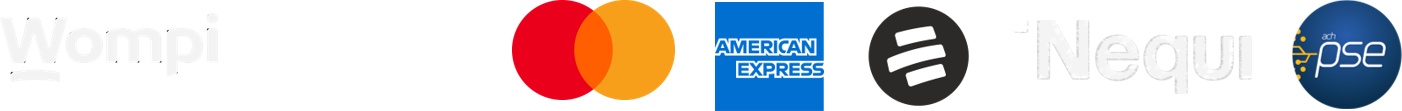
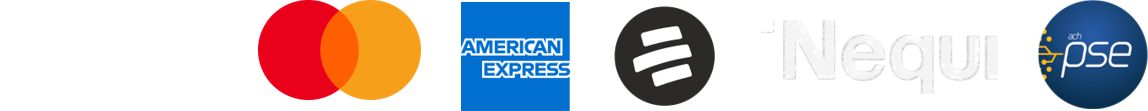
feat(Tienda): Implementar método de pago 'Compra y Paga Después'

diff --git a/application/views/carrito/finalizar.php b/application/views/carrito/finalizar.php
@@ -112,20 +112,6 @@ if($this->session->userdata('usuario_id')) {
                         </div>
                         <hr>
 
-                        <div class="row mb-3">
-                            <div class="col-3">
-                                <div class="block-features__item-icon">
-                                    <img src="<?php echo base_url(); ?>images/icons/envios_gratis.svg">
-                                </div>
-                            </div>
-                            <div class="col-9">
-                                <div class="block-features__item-info">
-                                    <div class="block-features__item-title">Envíos gratis</div>
-                                    <div class="block-features__item-subtitle">Tus órdenes gratis en todo el Valle de Aburrá</div>
-                                </div>
-                            </div>
-                        </div>
-
                         <input type="hidden" id="pedido_total_pago" value="<?php echo $this->cart->total(); ?>">
 
                         <?php if(isset($this->data['permisos']) && in_array(['pedidos' => 'pedidos_credito_gestionar'], $this->data['permisos'])) { ?>
@@ -146,6 +132,58 @@ if($this->session->userdata('usuario_id')) {
                                 </label>
                             </div>
                         <?php } ?>
+
+                        <!-- Pagar con todos los medios de pago -->
+                        <div class="form-check mb-3">
+                            <span class="input-check form-check-input">
+                                <span class="input-check__body">
+                                    <input class="input-check__input" type="radio" name="pago_todos" id="pago_todos" checked>
+                                    <span class="input-check__box"></span>
+                                    <span class="input-check__icon">
+                                        <svg width="9px" height="7px">
+                                            <path d="M9,1.395L3.46,7L0,3.5L1.383,2.095L3.46,4.2L7.617,0L9,1.395Z" />
+                                        </svg>
+                                    </span>
+                                </span>
+                            </span>
+                            <label class="form-check-label" for="pago_todos">
+                                Pagar con PSE y tarjetas de crédito
+                            </label><br>
+                            <img src="<?php echo base_url(); ?>images/formas_pago.png" alt="Todos los medios de pago" width="100%">
+                        </div>
+
+                        <!-- Compra ahora y paga después -->
+                        <div class="form-check mb-3">
+                            <span class="input-check form-check-input">
+                                <span class="input-check__body">
+                                    <input class="input-check__input" type="radio" name="pagos_sumas" id="pagos_sumas">
+                                    <span class="input-check__box"></span>
+                                    <span class="input-check__icon">
+                                        <svg width="9px" height="7px">
+                                            <path d="M9,1.395L3.46,7L0,3.5L1.383,2.095L3.46,4.2L7.617,0L9,1.395Z" />
+                                        </svg>
+                                    </span>
+                                </span>
+                            </span>
+                            <label class="form-check-label" for="pagos_sumas">
+                                Compra ahora - Paga después
+                            </label><br>
+                            <img src="<?php echo base_url(); ?>images/sumas.svg" alt="Formas de pago" height="50" width="100%">
+                        </div><hr>
+
+                        <div class="row mb-3">
+                            <div class="col-3">
+                                <div class="block-features__item-icon">
+                                    <img src="<?php echo base_url(); ?>images/icons/envios_gratis.svg">
+                                </div>
+                            </div>
+                            <div class="col-9">
+                                <div class="block-features__item-info">
+                                    <div class="block-features__item-title">Envíos gratis</div>
+                                    <div class="block-features__item-subtitle">Tus órdenes gratis en todo el Valle de Aburrá</div>
+                                </div>
+                            </div>
+                        </div>
 
                         <button type="submit" class="btn btn-primary btn-xl btn-block" onClick="javascript:guardarFactura()" id="btn_pagar" disabled>
                             Finalizar pedido
@@ -259,10 +297,11 @@ if($this->session->userdata('usuario_id')) {
         if (recibo.resultado) {
             // Se crean los ítems de la factura
             let reciboItems = await consulta('crear', {tipo: 'recibos_detalle', 'recibo_id': recibo.resultado, lista_precio: datosRecibo.lista_precio}, false)
+            let tipoPago = ($(`#pago_todos`).is(':checked')) ? 'gateway' : 'agregador'
 
             // Si es pedido a contado, se abre modal de Wompi
             if(!$(`#checkout_venta_credito`).is(':checked')) {
-                if (reciboItems.resultado) cargarInterfaz('carrito/pago', 'contenedor_pago', {id: recibo.resultado})
+                if (reciboItems.resultado) cargarInterfaz('carrito/pago', 'contenedor_pago', {id: recibo.resultado, tipo_pago: tipoPago})
             }
 
             // Si el tercero cliente no existe (sin sucursales), se va a crear

diff --git a/application/views/core/footer.php b/application/views/core/footer.php
@@ -154,7 +154,7 @@
                         Un desarrollo de <a href="https://johnarleycano.com" target="_blank">John Arley Cano</a> - <?php echo "Versión ".exec('git describe --tags'); ?>
                     </div>
                     <div class="site-footer__payments">
-                        <img src="<?php echo base_url(); ?>images/formas_pago.png" alt="Formas de pago" width="320">
+                        <img src="<?php echo base_url(); ?>images/formas_pago_wompi.png" alt="Formas de pago" width="320">
                     </div>
                 </div>
             </div>
